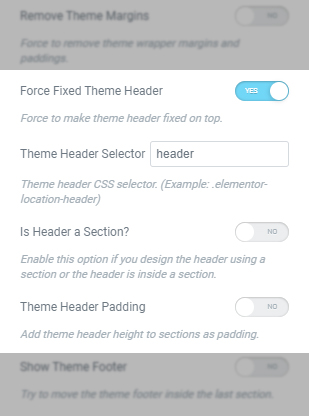
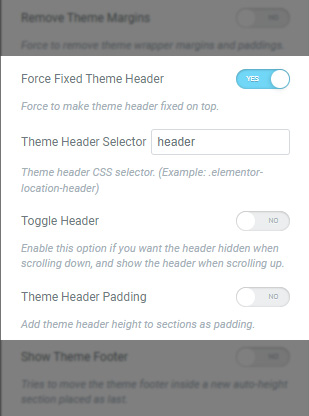
FullPage for Elementor documentation for v2 update.

diff --git a/docs/fullpage-for-elementor.md b/docs/fullpage-for-elementor.md
@@ -90,7 +90,7 @@ This plugin simplifies creation of full screen scrolling websites with WordPress
 ## Requirements
 
 * WordPress version should be at least v5.6, recommended v6.x.
-* Elementor plugin should be active on the WordPress site and at least 2.7.3.
+* Elementor plugin should be active on the WordPress site and at least 3.5.0, recommended v3.8.0.
 
 ## Tutorial Video
 
@@ -167,7 +167,7 @@ To load the template:
 
 ## Sections
 
-Each Elementor Section widget on the page is fullpage section.
+Each Elementor Section widget or top Container widget on the page is defined as fullpage section.
 
 ![How To Add Sections](assets/fullpage-for-elementor/g02-add-sections.gif "How To Add Sections")
 
@@ -183,7 +183,7 @@ Every time a widget is added, a new section is created. You can check the sectio
 
 ### Remove Sections
 
-* Right click on the section widget and click on `Delete`.
+* Right click on the section/container widget and click on `Delete`.
 
 ### Section Options
 
@@ -213,7 +213,7 @@ This would be an example of a link with an anchor:
 `http://yoursite.com/#secondPage`
 (which is the URL you will see once you access to that section manually) Notice the last part of the URL ends in `#secondPage`, if FullPage Anchor option for that section is set to `secondPage`.
 
-*Note: FullPage Anchor should NOT be the same with any anchor ID on the page.*
+*Note: FullPage Anchor should be a unique ID and should NOT be the same with any anchor ID on the page.*
 
 #### Navigation Tooltip
 
@@ -233,23 +233,23 @@ If you want to change the (left/right) navigation bullet colors for the active s
 
 ## Slides
 
-Slides are the horizontal FullPage elements inside sections.
+Slides are the horizontal FullPage elements inside fullpage sections.
 
-Each `Inner Section` widget inside the Elementor Sections are set as FullPage Slides if [*Has Horizontal Slides*](#has-horizontal-slides) option of the section is enabled.
+Each `Inner Section` or `Container` widget inside the Elementor Sections or top `Container` Widget are set as FullPage Slides if [*Has Horizontal Slides*](#has-horizontal-slides) option of the section is enabled.
 
 ![How To Add Slides](assets/fullpage-for-elementor/g03-add-slides.gif "How To Add Slides")
 
-*Note: When a section is enabled as a Slide, only Inner Section widgets can be placed inside the section. No other widgets should be placed inside the section other than Inner Section.*
+*Note: When a section is enabled as a Slide, only Inner Section or Container widgets can be placed inside the fullpage section. No other widgets should be placed inside the section other than Inner Section or Container.*
 
 ### Add Slides
 
 * Enable [*Has Horizontal Slides*](#has-horizontal-slides) option of the section.
-* Add `Inner Section` widgets inside the section.
-* Add your content inside the `Inner Section` widgets.
+* Add `Inner Section` widgets inside the section, or `Container` widgets inside the top container.
+* Add your content inside the `Inner Section` or `Container` widgets.
 
 ### Remove Slides
 
-* Remove the `Inner Section`.
+* Remove the `Inner Section` or `Container`.
 
 ### Slide Options
 
@@ -372,13 +372,7 @@ This option determines whether to use scrollbar for the site or not. In case of 
 
 This option defines whether or not to create a scroll for the section/slide in case its content is bigger than the height of it.
 
-![Scroll Overflow Options](assets/fullpage-for-elementor/s18-scroll-overflow-options.jpg "Scroll Overflow Options")
-
 `Mac Style Scroll Overflow` option enables a "mac style" for the scrollbar instead of the default one, which will look quite different in Windows computers.
-
-### Big Sections Destination
-
-This option defines how to scroll to a section which size is bigger than the viewport. By default FullPage scrolls to the top if you come from a section above the destination one and to the bottom if you come from a section below the destination one. Possible values are top, bottom, default.
 
 ### Continuous Vertical
 
@@ -396,17 +390,21 @@ This option defines whether scrolling up in the first section should scroll to t
 
 This option defines whether horizontal sliders will loop after reaching the last or previous slide or not.
 
+### Big Sections Destination
+
+This option defines how to scroll to a section which size is bigger than the viewport. By default FullPage scrolls to the top if you come from a section above the destination one and to the bottom if you come from a section below the destination one. Possible values are top, bottom, default.
+
 ### Easing
 
 This option defines the transition effect to use for the vertical and horizontal scrolling. It includes CSS3 and JS transition effects.
 
 When `CSS Easing` option is enabled, CSS3 transition animations are used. It is highly recommended to use CSS3 easing options.
 
-![CSS3 Easing Options](assets/fullpage-for-elementor/TODO.jpg "CSS3 Easing Options")
+![CSS3 Easing Options](assets/fullpage-for-elementor/s31-css-easing.jpg "CSS3 Easing Options")
 
 When `CSS Easing` option is disabled, JavaScript transition animations are used.
 
-![JavaScript Easing Options](assets/fullpage-for-elementor/TODO.jpg "JavaScript Easing Options")
+![JavaScript Easing Options](assets/fullpage-for-elementor/s32-js-easing.jpg "JavaScript Easing Options")
 
 ### Scrolling Speed
 
@@ -440,7 +438,7 @@ If you want to avoid the auto scroll when scrolling over some elements, this is 
 
 ### Custom CSS
 
-You can add your custom CSS.
+You can add your FullPage related custom CSS. This CSS will only be enabled when FullPage is enabled.
 
 ## Events
 
@@ -564,6 +562,10 @@ If needed, any extra fullpage.js parameters can be used.
 
 If the page has video(s) in sections/slides, this parameter will make the videos play when the section is visible, otherwise pauses on section leave.
 
+### Video Keep Playing
+
+If the page has video(s) in sections/slides, this parameter will make the videos play all the time, even if the section/slide is not in the view.
+
 ### Remove Theme Margins
 
 This option tries to remove the page wrapper margins, so the page can be full width.
@@ -574,15 +576,11 @@ This option tries to remove the page wrapper margins, so the page can be full wi
 
 This option tries to make the header fixed at the top, and arranges the section content accordingly.
 
-`Theme Header Selector` option should be given as a JavaScript selector.
-
-`Is Header a Section` option should be enabled if your header element is inside a section.
+`Theme Header Selector` option should be given as a JavaScript/CSS selector.
 
 `Toggle Header` option enables header toggle, which the header is hidden when scrolling down, and the header is shown when scrolling up.
 
 `Theme Header Padding` option sets the section header paddings with respect to header height.
-
-If you are designing your theme header using Elementor sections, or added your header inside a section, enable **Is Header a Section?** option.
 
 If you designed your theme header using Elementor, the *Theme Header Selector* option should be set to `.elementor-location-header`.
 
@@ -593,13 +591,6 @@ If you designed your theme header using Elementor, the *Theme Header Selector* o
 This option moves the footer inside a new auto-height section placed as last.
 
 `Theme Footer Selector` option should be given as a JavaScript selector.
-
-### Enable Elementor Animations
-
-![Enable Elementor Animations](assets/fullpage-for-elementor/s29-enable-elementor-animations.jpg "Enable Elementor Animations")
-
-This option enables Elementor animations if scrollbars are disabled.
-**Reset Elementor Animations** option can be enabled if animation reset is wanted when section/slide change.
 
 ### Hide Content Before FullPage
 

diff --git a/docs/fullpage-for-gutenberg.md b/docs/fullpage-for-gutenberg.md
@@ -204,7 +204,7 @@ This would be an example of a link with an anchor:
 `http://yoursite.com/#secondPage`
 (which is the URL you will see once you access to that section manually) Notice the last part of the URL ends in `#secondPage`, if FullPage Anchor option for that section is set to `secondPage`.
 
-*Note: FullPage Anchor should NOT be the same with any anchor ID on the page.*
+*Note: FullPage Anchor should be a unique ID and should NOT be the same with any anchor ID on the page.*
 
 #### Navigation Tooltip
 
@@ -660,7 +660,7 @@ This option tries to remove the page wrapper margins, so the page can be full wi
 
 This option tries to make the header fixed at the top, and arranges the section content accordingly.
 
-`Theme Header Selector` option should be given as a JavaScript selector.
+`Theme Header Selector` option should be given as a JavaScript/CSS selector.
 
 `Toggle Header` option enables header toggle, which the header is hidden when scrolling down, and the header is shown when scrolling up.
 
